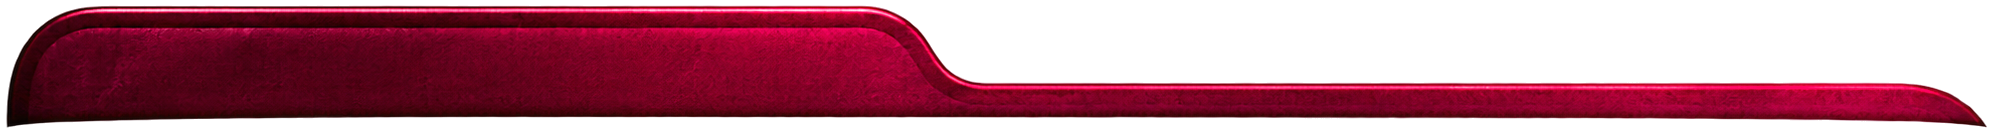
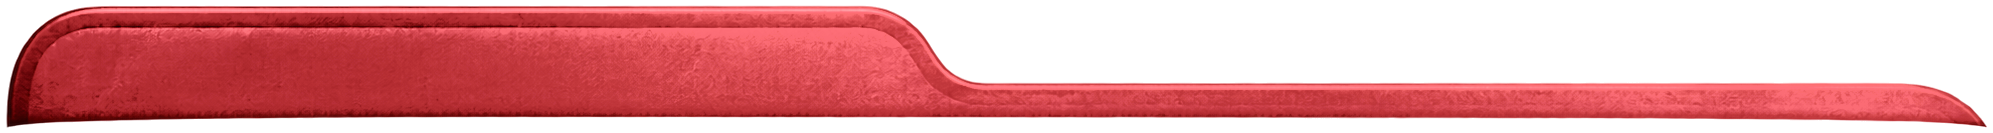
Add files via upload

diff --git a/app.js b/app.js
@@ -4,8 +4,8 @@
    ===================================================================== */
 'use strict';
 
-var APP_VERSION='5.0.836';
-var APP_BUILD='5836';
+var APP_VERSION='5.0.837';
+var APP_BUILD='5837';
 
 /* ------------------------- state + encrypted local storage ------------------------- */
 var KEY = 'advokat_pro_v1'; // legacy localStorage key (migration only)
@@ -277,14 +277,14 @@ function materializeUseIcons(){
 }
 materializeUseIcons();
 function headerBell(){
-  return '<button class="today-bell app-header-bell premium-action-image" style="appearance:none!important;-webkit-appearance:none!important;position:absolute!important;top:0!important;right:2px!important;left:auto!important;bottom:auto!important;box-sizing:border-box!important;width:50px!important;height:50px!important;min-width:50px!important;min-height:50px!important;max-width:50px!important;max-height:50px!important;margin:0!important;padding:0!important;border:0!important;border-radius:15px!important;background:transparent!important;box-shadow:none!important;opacity:1!important;display:flex!important;align-items:center!important;justify-content:center!important;line-height:1!important;transform:none!important;filter:none!important;z-index:20!important" data-act="notify-sheet" aria-label="Уведомления"><img class="premium-action-art" src="header-bell-premium.png?v=5836" alt=""></button>';
+  return '<button class="today-bell app-header-bell premium-action-image" style="appearance:none!important;-webkit-appearance:none!important;position:absolute!important;top:0!important;right:2px!important;left:auto!important;bottom:auto!important;box-sizing:border-box!important;width:50px!important;height:50px!important;min-width:50px!important;min-height:50px!important;max-width:50px!important;max-height:50px!important;margin:0!important;padding:0!important;border:0!important;border-radius:15px!important;background:transparent!important;box-shadow:none!important;opacity:1!important;display:flex!important;align-items:center!important;justify-content:center!important;line-height:1!important;transform:none!important;filter:none!important;z-index:20!important" data-act="notify-sheet" aria-label="Уведомления"><img class="premium-action-art" src="header-bell-premium.png?v=5837" alt=""></button>';
 }
 function headerSearch(action,active,label){
   action=action||'global-search';
   label=label||'Поиск';
   var cls='app-header-search premium-action-image'+(active?' on':'');
   var style='appearance:none!important;-webkit-appearance:none!important;box-sizing:border-box!important;width:50px!important;height:50px!important;min-width:50px!important;min-height:50px!important;max-width:50px!important;max-height:50px!important;margin:0!important;padding:0!important;border:0!important;border-radius:15px!important;background:transparent!important;box-shadow:none!important;opacity:1!important;display:flex!important;align-items:center!important;justify-content:center!important;line-height:1!important;transform:none!important;filter:none!important';
-  return '<button class="'+cls+'" style="'+style+'" data-act="'+esc(action)+'" title="'+esc(label)+'" aria-label="'+esc(label)+'" type="button"><img class="premium-action-art" src="header-search-premium.png?v=5836" alt=""></button>';
+  return '<button class="'+cls+'" style="'+style+'" data-act="'+esc(action)+'" title="'+esc(label)+'" aria-label="'+esc(label)+'" type="button"><img class="premium-action-art" src="header-search-premium.png?v=5837" alt=""></button>';
 }
 function matterHeaderAction(action,icon,active,label,extraClass){
   label=label||'';
@@ -293,11 +293,11 @@ function matterHeaderAction(action,icon,active,label,extraClass){
 function headerMatterFilter(active){
   var cls='today-bell app-header-filter premium-action-image'+(active?' on':'');
   var style='appearance:none!important;-webkit-appearance:none!important;position:absolute!important;top:0!important;right:2px!important;left:auto!important;bottom:auto!important;box-sizing:border-box!important;width:50px!important;height:50px!important;min-width:50px!important;min-height:50px!important;max-width:50px!important;max-height:50px!important;margin:0!important;padding:0!important;border:0!important;border-radius:15px!important;background:transparent!important;box-shadow:none!important;opacity:1!important;display:flex!important;align-items:center!important;justify-content:center!important;line-height:1!important;transform:none!important;filter:none!important;z-index:20!important;overflow:visible!important';
-  return '<button class="'+cls+'" style="'+style+'" data-act="matter-filter-sheet" title="Фильтры и сортировка" aria-label="Фильтры и сортировка" type="button"><img class="premium-action-art" src="header-filter-premium.png?v=5836" alt=""></button>';
+  return '<button class="'+cls+'" style="'+style+'" data-act="matter-filter-sheet" title="Фильтры и сортировка" aria-label="Фильтры и сортировка" type="button"><img class="premium-action-art" src="header-filter-premium.png?v=5837" alt=""></button>';
 }
 function mainBrandHeader(withBell,rightAction){
   var bell = rightAction || (withBell===false ? '' : headerBell());
-  return '<div class="today-brand main-brand-fixed app-main-brand" style="position:relative!important;box-sizing:border-box!important;width:100%!important;height:52px!important;min-height:52px!important;max-height:52px!important;margin:0 0 8px!important;padding:0 2px!important;display:flex!important;align-items:center!important;justify-content:flex-start!important;gap:12px!important;transform:none!important"><div class="today-brand-left"><span class="today-logo"><img src="scale-gold.webp?v=5836" alt="Весы правосудия"></span><div><b>Ежедневник адвоката</b><small>Больше, чем календарь</small></div></div>'+bell+'</div>';
+  return '<div class="today-brand main-brand-fixed app-main-brand" style="position:relative!important;box-sizing:border-box!important;width:100%!important;height:52px!important;min-height:52px!important;max-height:52px!important;margin:0 0 8px!important;padding:0 2px!important;display:flex!important;align-items:center!important;justify-content:flex-start!important;gap:12px!important;transform:none!important"><div class="today-brand-left"><span class="today-logo"><img src="scale-gold.webp?v=5837" alt="Весы правосудия"></span><div><b>Ежедневник адвоката</b><small>Больше, чем календарь</small></div></div>'+bell+'</div>';
 }
 function brandLine(){ return '<div class="brandline">'+ico('scale','s')+'<span>Ежедневник адвоката</span><i>OFFLINE</i></div>'; }
 function iso(d){ return d.getFullYear()+'-'+String(d.getMonth()+1).padStart(2,'0')+'-'+String(d.getDate()).padStart(2,'0'); }
@@ -725,12 +725,12 @@ function renderPremiumListPicker(){
   // спокойной командой и не смешивается с реальными делами и их категориями.
   var canClear=isMatterPicker&&LIST_PICKER.target==='e-mid'&&!!String(LIST_PICKER.selected||'').trim();
   var clearMatter=canClear?'<button type="button" class="premium-matter-clear" data-act="list-matter-clear">'+ico('xmark','s')+'<span>Снять привязку к делу</span></button>':'';
-  var headIconHtml=isCourtPicker?'<span class="premium-list-head-icon premium-court-head-scales"><img src="scale-gold.webp?v=5836" alt="Весы правосудия"></span>':'<span class="premium-list-head-icon">'+ico(LIST_PICKER.meta.icon||'list')+'</span>';
+  var headIconHtml=isCourtPicker?'<span class="premium-list-head-icon premium-court-head-scales"><img src="scale-gold.webp?v=5837" alt="Весы правосудия"></span>':'<span class="premium-list-head-icon">'+ico(LIST_PICKER.meta.icon||'list')+'</span>';
   modal.innerHTML='<div class="premium-list-grab"></div>'+ 
     '<div class="premium-list-head">'+headIconHtml+'<div><h3>'+esc(LIST_PICKER.meta.title)+'</h3><p>'+esc(LIST_PICKER.meta.sub)+'</p></div><button type="button" class="premium-list-close" data-act="list-close" aria-label="Закрыть">'+ico('xmark','s')+'</button></div>'+ 
     '<div class="premium-list-ornament" aria-hidden="true"><i></i><span></span><i></i></div>'+ 
     search+'<div class="premium-list-body">'+list+'</div>'+clearMatter+ 
-    '<div class="premium-list-sign"><i></i><span><img class="premium-list-sign-logo" src="scale-gold.webp?v=5836" alt="Весы правосудия"></span><i></i></div>';
+    '<div class="premium-list-sign"><i></i><span><img class="premium-list-sign-logo" src="scale-gold.webp?v=5837" alt="Весы правосудия"></span><i></i></div>';
 }
 
 function syncPremiumSelectButton(id){
@@ -2729,7 +2729,7 @@ function drawHearingResultSheet(){
     '<div class="fld hearing-result-note-field"><label>Итог / примечание</label><div class="hearing-result-note-shell"><textarea id="hr-note" rows="4" maxlength="1000" placeholder="Например: допрошен свидетель, исследованы материалы, суд отложил рассмотрение…">'+esc(noteValue)+'</textarea></div></div>'+ 
     '<div class="hint hearing-result-hint"><span class="hearing-result-hint-icon">'+ico('info','s')+'</span><p>После сохранения заседание уйдёт с главной страницы и останется в истории. Для связанного дела результат автоматически попадёт в журнал.</p></div>'+ 
     '<div class="hearing-result-v355-action"><button class="btn hearing-result-save" data-act="hearing-result-save"><span>Сохранить результат</span>'+ico('chev','s')+'</button></div>'+ 
-    '<div class="hearing-result-v355-sign" aria-hidden="true"><i></i><span><img src="scale-gold.webp?v=5836" alt="Весы правосудия"></span><i></i></div>');
+    '<div class="hearing-result-v355-sign" aria-hidden="true"><i></i><span><img src="scale-gold.webp?v=5837" alt="Весы правосудия"></span><i></i></div>');
   var sheet=$('#sheet');
   sheet.classList.add('hearing-result-sheet','hearing-result-v355');
   sheet.scrollTop=oldScroll;
@@ -2840,7 +2840,7 @@ function sheetTaskTypeFilters(){
 
   openSheet(
     '<div class="filter-premium-head task-filter-premium-head">'+
-      '<span class="task-filter-brand-mark"><img src="scale-gold.webp?v=5836" alt=""></span>'+
+      '<span class="task-filter-brand-mark"><img src="scale-gold.webp?v=5837" alt=""></span>'+
       '<div class="task-filter-head-copy"><h2>Фильтр записей</h2><p>Выберите тип записи</p></div>'+
       '<button type="button" class="task-filter-close" data-act="close" aria-label="Закрыть">'+ico('xmark','s')+'</button>'+
     '</div>'+
@@ -2999,7 +2999,7 @@ function sheetMatterFilters(){
     row('m-sort','stage','flag','По стадии','По этапу производства',sortCount,'#7D5CE4',S.ui.matterSort==='stage');
   openSheet(
     '<div class="matter-filter-premium-head">'+
-      '<span class="matter-filter-brand-mark"><img src="scale-gold.webp?v=5836" alt=""></span>'+ 
+      '<span class="matter-filter-brand-mark"><img src="scale-gold.webp?v=5837" alt=""></span>'+ 
       '<div class="matter-filter-head-copy"><h2>Фильтр дел</h2><p>Состояние, тип, основание, стадия и сортировка</p></div>'+ 
       '<button type="button" class="matter-filter-close" data-act="close" aria-label="Закрыть">'+ico('xmark','s')+'</button>'+ 
     '</div>'+ 
@@ -3978,7 +3978,7 @@ function renderQuickEntryTop190(title,currentKind){
   var longTitle=title.length>20?' qe190-title-long':'';
   if(editTitle) longTitle+=' qe190-title-edit';
   return '<section class="qe190-top qe190-kind-'+esc(currentKind)+(editTitle?' qe190-mode-edit':' qe190-mode-create')+'">'+
-    '<div class="qe190-brand"><img src="scale-gold.webp?v=5836" alt="Весы правосудия"><div class="qe190-brand-copy"><b>Ежедневник адвоката</b><small>Больше, чем календарь</small></div></div>'+
+    '<div class="qe190-brand"><img src="scale-gold.webp?v=5837" alt="Весы правосудия"><div class="qe190-brand-copy"><b>Ежедневник адвоката</b><small>Больше, чем календарь</small></div></div>'+
     '<div class="qe190-brand-rule" aria-hidden="true"><i></i><span></span><i></i></div>'+
     '<div class="qe190-heading">'+
       '<button type="button" class="qe190-back" data-act="close" aria-label="Назад">'+ico('left')+'</button>'+
@@ -4481,10 +4481,10 @@ function dossierFrontBoard(){
   </svg>`;
 }
 var DOSSIER_TABS={general:'Общее',events:'События',tasks:'Задачи',journal:'Журнал'};
-/* 5.0.836 — clean dossier design stage. Stored case/task/journal data remains intact. */
+/* 5.0.837 — clean dossier design stage. Stored case/task/journal data remains intact. */
 var DOSSIER_LAYOUT_ONLY=true;
 function dossierLayoutPreview(m,id,tab,p){
-  // 5.0.836 / build 5836: one independent image layer on the approved clean page.
+  // 5.0.837 / build 5837: one independent image layer on the approved clean page.
   // The image variant is chosen from the SAME production type used by page «Дела».
   // It contains no static labels or controls; real case data is not modified.
   var visualType=matterFolderVisualType(m)||'koap';
@@ -4921,11 +4921,11 @@ function quickItem(i,t,act,tone){
      восстановленным по утверждённому макету 5.100. Иконка и золотая дуга больше
      не собираются из двух независимых фрагментов, поэтому стык не может разойтись. */
   var art={
-    'qa-hearing':'quick-card-hearing-v5100.png?v=5836',
-    'qa-meeting':'quick-card-meeting-v5100.png?v=5836',
-    'qa-deadline':'quick-card-deadline-v5100.png?v=5836',
-    'qa-task':'quick-card-task-v5100.png?v=5836',
-    'qa-journal':'quick-card-journal-v5100.png?v=5836'
+    'qa-hearing':'quick-card-hearing-v5100.png?v=5837',
+    'qa-meeting':'quick-card-meeting-v5100.png?v=5837',
+    'qa-deadline':'quick-card-deadline-v5100.png?v=5837',
+    'qa-task':'quick-card-task-v5100.png?v=5837',
+    'qa-journal':'quick-card-journal-v5100.png?v=5837'
   }[act]||'';
   if(art){
     return '<button class="quickitem quickitem-v5100 q-'+(tone||'slate')+'" data-act="'+act+'" aria-label="'+esc(t)+'"><img class="quickcard-v5100" src="'+art+'" alt=""></button>';
@@ -4934,7 +4934,7 @@ function quickItem(i,t,act,tone){
 }
 function premiumActionIcon(type,cls){
   cls=cls||'premium-sheet-action-icon';
-  var src=type==='bell'?'header-bell-premium.png?v=5836':type==='search'?'header-search-premium.png?v=5836':type==='plus'?'fab-plus-square-premium.png?v=5836':'';
+  var src=type==='bell'?'header-bell-premium.png?v=5837':type==='search'?'header-search-premium.png?v=5837':type==='plus'?'fab-plus-square-premium.png?v=5837':'';
   if(src) return '<span class="'+cls+'"><img src="'+src+'" alt=""></span>';
   return '<span class="filter-premium-head-icon">'+ico(type)+'</span>';
 }
@@ -5043,7 +5043,7 @@ function sheetGlobalSearch(){
   openSheet('<section class="gs166 gs153">'+
     '<header class="gs166-head gs153-head">'+
       '<div class="gs166-head-copy gs153-head-copy"><h2>Глобальный поиск</h2><p><span>Доверители, номера дел, суды, статьи,</span><span>задачи и журнал.</span></p></div>'+
-      '<img class="gs166-head-motif" src="global-search-head-motif-v173.png?v=5836" alt="" aria-hidden="true">'+
+      '<img class="gs166-head-motif" src="global-search-head-motif-v173.png?v=5837" alt="" aria-hidden="true">'+
     '</header>'+
     '<div class="gs166-searchwrap">'+
       '<label class="gs166-search gs153-search" for="gq">'+
@@ -5085,7 +5085,7 @@ function sheetGlobalSearch(){
         '<button type="button" class="gs153-close" data-act="global-search-clear-tip" aria-label="Закрыть подсказку">'+ico('xmark','s')+'</button>'+
       '</div>'+
     '</div>'+
-    '<footer class="gs166-footer gs153-footer"><span></span><img src="reminder-footer-scales-exact.png?v=5836" alt=""><span></span><b>ПРАВО И ПОРЯДОК</b></footer>'+
+    '<footer class="gs166-footer gs153-footer"><span></span><img src="reminder-footer-scales-exact.png?v=5837" alt=""><span></span><b>ПРАВО И ПОРЯДОК</b></footer>'+
   '</section>');
   $('#sheet').classList.add('global-search-premium-v166-sheet');
   renderGlobalSearch();
@@ -5416,7 +5416,7 @@ function sheetNotify(){
   openSheet('<section class="rem116">'+
     '<header class="rem116-head">'+
       '<div class="rem116-head-copy"><h2>Напоминания</h2><p><span>Локальное напоминание за 10 минут</span><span>до задачи и за час до заседания.</span></p></div>'+
-      '<img class="rem116-head-motif" src="reminder-head-motif-exact.png?v=5836" alt="">'+
+      '<img class="rem116-head-motif" src="reminder-head-motif-exact.png?v=5837" alt="">'+
     '</header>'+
     '<article class="rem116-card rem116-card-local">'+
       '<span class="rem116-card-icon">'+ico('bell','s')+'</span>'+
@@ -5430,7 +5430,7 @@ function sheetNotify(){
     '</article>'+
     '<button class="rem116-toggle" data-act="notify" type="button" aria-label="'+toggleText+'"><span class="rem116-toggle-bell">'+ico('bell','s')+'</span><span class="rem116-toggle-text">'+toggleText+'</span><span class="rem116-toggle-chevron">'+ico('chev','s')+'</span></button>'+
     '<p class="rem116-note">Вы всегда сможете включить их снова в настройках.</p>'+
-    '<footer class="rem116-footer"><span></span><img class="rem116-footer-scale" src="reminder-footer-scales-exact.png?v=5836" alt=""><span></span><b>ДЕЛА В ПОРЯДКЕ</b></footer>'+
+    '<footer class="rem116-footer"><span></span><img class="rem116-footer-scale" src="reminder-footer-scales-exact.png?v=5837" alt=""><span></span><b>ДЕЛА В ПОРЯДКЕ</b></footer>'+
   '</section>');
   $('#sheet').classList.add('reminders-approved-v117-sheet');
 }
@@ -6542,7 +6542,7 @@ if('serviceWorker' in navigator){
        register only after the UI is already usable; do not force an update,
        reload, navigation or controller switch during launch. */
     setTimeout(function(){
-      navigator.serviceWorker.register('./sw.js?v=5836',{updateViaCache:'none'})
+      navigator.serviceWorker.register('./sw.js?v=5837',{updateViaCache:'none'})
         .then(function(reg){ return reg.update().catch(function(){}); })
         .catch(function(){});
     },1400);

diff --git a/sw.js b/sw.js
@@ -1,70 +1,70 @@
-const CACHE = 'advokat-iphone-offline-v153-premium-5836';
+const CACHE = 'advokat-iphone-offline-v153-premium-5837';
 
 const CORE = [
   './',
   './index.html',
-  './styles.css?v=5836',
-  './cases-folders.css?v=5836',
-  './case-lifecycle.css?v=5836',
-  './case-dossier.css?v=5836',
-  './bg-matters-approved-v487.png?v=5836',
-  './bg-dossier-continuous-v5833.webp?v=5836',
-  './dossier-top-strip-admin.png?v=5836',
-  './dossier-top-strip-criminal.png?v=5836',
-  './dossier-top-strip-civil.png?v=5836',
-  './dossier-top-strip-koap.png?v=5836',
-  './new-matter-client.css?v=5836',
-  './new-matter-stage.css?v=5836',
-  './new-matter-values.css?v=5836',
-  './new-matter-save.css?v=5836',
-  './app.js?v=5836',
-  './manifest.webmanifest?v=5836',
+  './styles.css?v=5837',
+  './cases-folders.css?v=5837',
+  './case-lifecycle.css?v=5837',
+  './case-dossier.css?v=5837',
+  './bg-matters-approved-v487.png?v=5837',
+  './bg-dossier-continuous-v5833.webp?v=5837',
+  './dossier-top-strip-admin.png?v=5837',
+  './dossier-top-strip-criminal.png?v=5837',
+  './dossier-top-strip-civil.png?v=5837',
+  './dossier-top-strip-koap.png?v=5837',
+  './new-matter-client.css?v=5837',
+  './new-matter-stage.css?v=5837',
+  './new-matter-values.css?v=5837',
+  './new-matter-save.css?v=5837',
+  './app.js?v=5837',
+  './manifest.webmanifest?v=5837',
   './VERSION.txt',
   './premium-icon-180.png',
   './premium-icon-192.png',
   './premium-icon-512.png',
-  './premium-icon-180.png?v=5836',
-  './premium-icon-192.png?v=5836',
+  './premium-icon-180.png?v=5837',
+  './premium-icon-192.png?v=5837',
   './bg-today-desk.webp',
   './bg-tasks-planner.webp',
   './bg-matters-folders.webp',
   './bg-matters-approved-v487.png',
-  './scale-gold.webp?v=5836',
+  './scale-gold.webp?v=5837',
   './bg-cal-marble-calendar.webp',
   './bg-more-marble-office.webp',
-  './premium-gold-type-v5249.webp?v=5836',
-  './premium-gold-save-v5249.webp?v=5836',
-  './quick-sheet-mobile-approved-v5211.webp?v=5836',
-  './quick-sheet-marble-approved.webp?v=5836',
-  './columns-light.png?v=5836',
-  './header-bell-premium.png?v=5836',
-  './header-search-premium.png?v=5836',
-  './header-filter-premium.png?v=5836',
-  './bg-new-matter-approved.webp?v=5836',
-  './nm-folder-mockup.png?v=5836',
-  './nm-scale-mockup.png?v=5836',
-  './nm-doc-mockup.png?v=5836',
-  './global-search-head-motif-v173.png?v=5836',
-  './fab-plus-square-premium.png?v=5836',
+  './premium-gold-type-v5249.webp?v=5837',
+  './premium-gold-save-v5249.webp?v=5837',
+  './quick-sheet-mobile-approved-v5211.webp?v=5837',
+  './quick-sheet-marble-approved.webp?v=5837',
+  './columns-light.png?v=5837',
+  './header-bell-premium.png?v=5837',
+  './header-search-premium.png?v=5837',
+  './header-filter-premium.png?v=5837',
+  './bg-new-matter-approved.webp?v=5837',
+  './nm-folder-mockup.png?v=5837',
+  './nm-scale-mockup.png?v=5837',
+  './nm-doc-mockup.png?v=5837',
+  './global-search-head-motif-v173.png?v=5837',
+  './fab-plus-square-premium.png?v=5837',
   './nav-panel-light.png',
-  './nav-panel-light.png?v=5836',
-  './nav-active-base.png?v=5836',
-  './nav-active-today.png?v=5836',
-  './nav-active-tasks.png?v=5836',
-  './nav-active-cases.png?v=5836',
-  './nav-active-calendar.png?v=5836',
-  './nav-active-more.png?v=5836',
-  './reminder-head-motif-exact.png?v=5836',
-  './reminder-footer-scales-exact.png?v=5836',
-  './quick-card-task-v5100.png?v=5836',
-  './quick-card-hearing-v5100.png?v=5836',
-  './quick-card-meeting-v5100.png?v=5836',
-  './quick-card-deadline-v5100.png?v=5836',
-  './quick-card-journal-v5100.png?v=5836',
-  './folder-icon-scale-kas-v779.png?v=5836',
-  './folder-icon-gavel-criminal-v770.png?v=5836',
-  './folder-icon-house-document-civil-v789.png?v=5836',
-  './folder-icon-doc-koap-v770.png?v=5836'
+  './nav-panel-light.png?v=5837',
+  './nav-active-base.png?v=5837',
+  './nav-active-today.png?v=5837',
+  './nav-active-tasks.png?v=5837',
+  './nav-active-cases.png?v=5837',
+  './nav-active-calendar.png?v=5837',
+  './nav-active-more.png?v=5837',
+  './reminder-head-motif-exact.png?v=5837',
+  './reminder-footer-scales-exact.png?v=5837',
+  './quick-card-task-v5100.png?v=5837',
+  './quick-card-hearing-v5100.png?v=5837',
+  './quick-card-meeting-v5100.png?v=5837',
+  './quick-card-deadline-v5100.png?v=5837',
+  './quick-card-journal-v5100.png?v=5837',
+  './folder-icon-scale-kas-v779.png?v=5837',
+  './folder-icon-gavel-criminal-v770.png?v=5837',
+  './folder-icon-house-document-civil-v789.png?v=5837',
+  './folder-icon-doc-koap-v770.png?v=5837'
 ];
 
 self.addEventListener('install', event => {

diff --git a/index.html b/index.html
@@ -2,27 +2,27 @@
 <html lang="ru">
 <head>
 <meta charset="utf-8">
-<meta name="app-build" content="5836">
+<meta name="app-build" content="5837">
 <meta name="viewport" content="width=device-width,initial-scale=1,maximum-scale=1,viewport-fit=cover">
 <title>Ежедневник адвоката</title>
-<link rel="manifest" href="manifest.webmanifest?v=5836">
-<link rel="stylesheet" href="styles.css?v=5836">
-<link rel="stylesheet" href="new-matter-client.css?v=5836">
-<link rel="stylesheet" href="new-matter-stage.css?v=5836">
-<link rel="stylesheet" href="new-matter-values.css?v=5836">
-<link rel="stylesheet" href="new-matter-save.css?v=5836">
-<link rel="stylesheet" href="cases-folders.css?v=5836">
-<link rel="stylesheet" href="case-lifecycle.css?v=5836">
-<link rel="stylesheet" href="case-dossier.css?v=5836">
-<link rel="preload" href="app.js?v=5836" as="script">
-<link rel="preload" href="scale-gold.webp?v=5836" as="image" fetchpriority="high">
+<link rel="manifest" href="manifest.webmanifest?v=5837">
+<link rel="stylesheet" href="styles.css?v=5837">
+<link rel="stylesheet" href="new-matter-client.css?v=5837">
+<link rel="stylesheet" href="new-matter-stage.css?v=5837">
+<link rel="stylesheet" href="new-matter-values.css?v=5837">
+<link rel="stylesheet" href="new-matter-save.css?v=5837">
+<link rel="stylesheet" href="cases-folders.css?v=5837">
+<link rel="stylesheet" href="case-lifecycle.css?v=5837">
+<link rel="stylesheet" href="case-dossier.css?v=5837">
+<link rel="preload" href="app.js?v=5837" as="script">
+<link rel="preload" href="scale-gold.webp?v=5837" as="image" fetchpriority="high">
 <link rel="preload" href="bg-today-desk.webp" as="image">
 <link rel="preload" href="nav-panel-light.png" as="image">
-<link rel="preload" href="nav-active-today.png?v=5836" as="image">
-<link rel="preload" href="header-bell-premium.png?v=5836" as="image">
-<link rel="preload" href="header-search-premium.png?v=5836" as="image">
-<link rel="preload" href="fab-plus-square-premium.png?v=5836" as="image">
-<link rel="preload" href="quick-sheet-mobile-approved-v5211.webp?v=5836" as="image">
+<link rel="preload" href="nav-active-today.png?v=5837" as="image">
+<link rel="preload" href="header-bell-premium.png?v=5837" as="image">
+<link rel="preload" href="header-search-premium.png?v=5837" as="image">
+<link rel="preload" href="fab-plus-square-premium.png?v=5837" as="image">
+<link rel="preload" href="quick-sheet-mobile-approved-v5211.webp?v=5837" as="image">
 <meta name="theme-color" content="#F4F6F9">
 <meta name="mobile-web-app-capable" content="yes">
 <meta name="apple-mobile-web-app-capable" content="yes">
@@ -31,17 +31,17 @@
 <meta name="apple-mobile-web-app-title" content="Адвокат">
 <meta name="format-detection" content="telephone=no">
 <meta name="color-scheme" content="light">
-<link rel="apple-touch-icon" sizes="180x180" href="premium-icon-180.png?v=5836">
-<link rel="apple-touch-icon-precomposed" sizes="180x180" href="premium-icon-180.png?v=5836">
-<link rel="icon" href="premium-icon-192.png?v=5836">
+<link rel="apple-touch-icon" sizes="180x180" href="premium-icon-180.png?v=5837">
+<link rel="apple-touch-icon-precomposed" sizes="180x180" href="premium-icon-180.png?v=5837">
+<link rel="icon" href="premium-icon-192.png?v=5837">
 <style id="ios-pwa-nav-critical">
 :root{--ios-nav-top:calc(100dvh - 75px);--ios-fab-top:calc(100dvh - 144px)}
 #tabbar.premium-nav{position:fixed!important;left:12px!important;right:12px!important;top:var(--ios-nav-top)!important;bottom:auto!important;z-index:1000!important}
 #fab.fab{position:fixed!important;top:var(--ios-fab-top)!important;bottom:auto!important;z-index:1001!important}
 @media(max-width:390px){:root{--ios-nav-top:calc(100dvh - 73px);--ios-fab-top:calc(100dvh - 137px)}#tabbar.premium-nav{left:10px!important;right:10px!important}#fab.fab{top:var(--ios-fab-top)!important;bottom:auto!important}}
 </style>
-<link rel="preload" href="premium-gold-type-v5249.webp?v=5836" as="image" type="image/webp">
-<link rel="preload" href="premium-gold-save-v5249.webp?v=5836" as="image" type="image/webp">
+<link rel="preload" href="premium-gold-type-v5249.webp?v=5837" as="image" type="image/webp">
+<link rel="preload" href="premium-gold-save-v5249.webp?v=5837" as="image" type="image/webp">
 </head>
 <body class="light">
 
@@ -231,6 +231,6 @@
 </div>
 
 <input type="file" id="file" accept=".json" style="display:none">
-<script src="app.js?v=5836"></script>
+<script src="app.js?v=5837"></script>
 </body>
 </html>

diff --git a/case-dossier.css b/case-dossier.css
@@ -1,5 +1,5 @@
 /* 5.0.829 / build 5829 — isolated premium matter dossier. No changes to «Дела». */
-#page.dossier-page{background:#f8f2e6 url('bg-dossier-continuous-v5833.webp?v=5836') top center / 100% auto no-repeat!important;color:#10264a!important;padding:calc(env(safe-area-inset-top,0px) + 8px) 9px calc(env(safe-area-inset-bottom,0px) + 20px)!important;overflow-x:hidden!important}
+#page.dossier-page{background:#f8f2e6 url('bg-dossier-continuous-v5833.webp?v=5837') top center / 100% auto no-repeat!important;color:#10264a!important;padding:calc(env(safe-area-inset-top,0px) + 8px) 9px calc(env(safe-area-inset-bottom,0px) + 20px)!important;overflow-x:hidden!important}
 #page.dossier-page .dossier-screen{max-width:600px;margin:auto;font-family:Georgia,'Times New Roman',serif;color:#10264a;position:relative;isolation:isolate;padding-bottom:8px}
 #page.dossier-page .dossier-nav{height:58px;margin:0 12px 10px;display:grid;grid-template-columns:46px 1fr 101px;gap:8px;align-items:center;position:relative;z-index:5}
 #page.dossier-page .dossier-iconbtn{width:38px;height:39px;border:1px solid rgba(129,90,47,.26);border-radius:10px;background:linear-gradient(155deg,#fffefa,#f8eee5);box-shadow:0 4px 8px #73513545,0 1px 1px #fff inset;color:#09245c;display:flex;align-items:center;justify-content:center}
@@ -384,12 +384,12 @@
 }
 
 
-/* 5.0.836 / build 5836 — empty dossier design stage. */
+/* 5.0.837 / build 5837 — empty dossier design stage. */
 #page.dossier-page .dossier-clean-base{min-height:calc(100dvh - 48px);padding-bottom:0}
 #page.dossier-page .dossier-clean-canvas{background:transparent;border:0;box-shadow:none;min-height:calc(100dvh - 160px);margin:0;padding:0;pointer-events:none}
 
 
-/* 5.0.836 / build 5836 — independent top color strip, no dossier reconstruction layers.
+/* 5.0.837 / build 5837 — independent top color strip, no dossier reconstruction layers.
    All four assets share one silhouette; production category selects the actual PNG. */
 #page.dossier-page .dossier-rear-stage .dossier-clean-canvas{position:relative;overflow:visible}
 #page.dossier-page .dossier-colored-rear-strip{
